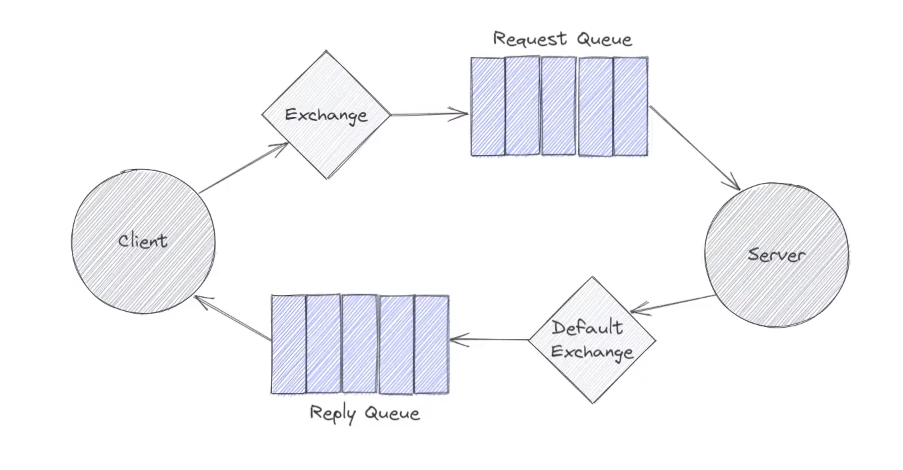
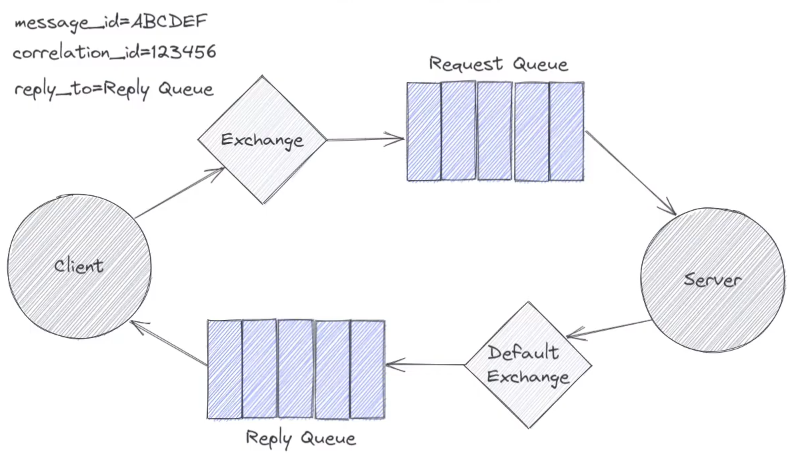
request-reply: updated notes

diff --git a/README.md b/README.md
@@ -258,3 +258,6 @@ analytics has multiple bindings.
 - The server then receives the message from the request queue and process the message
 - Then it sends the reply to the default exchange / other exchange to route it through the reply queue.
 - Then the client receives it from the reply queue.
+- `reply_to` = Reply Queue name to indicate the queue to which server will send the response.
+- to uniquely identify the message the meta data with requests are send.
+- the metadata used usually are `message_id` and `correlation_id`.
